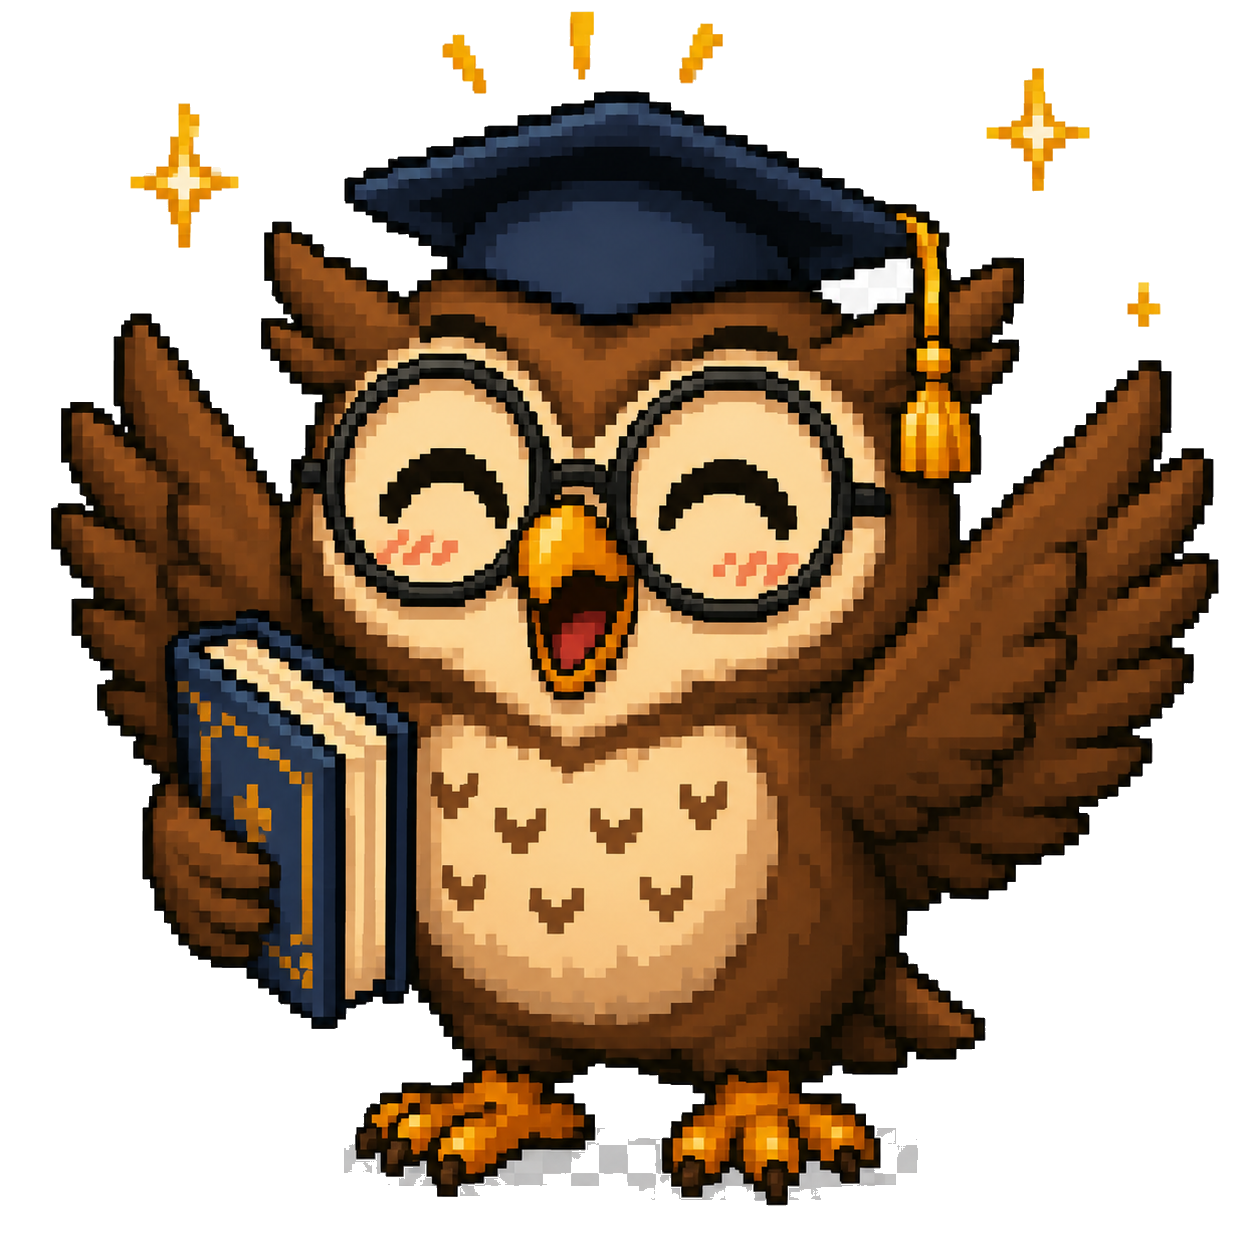
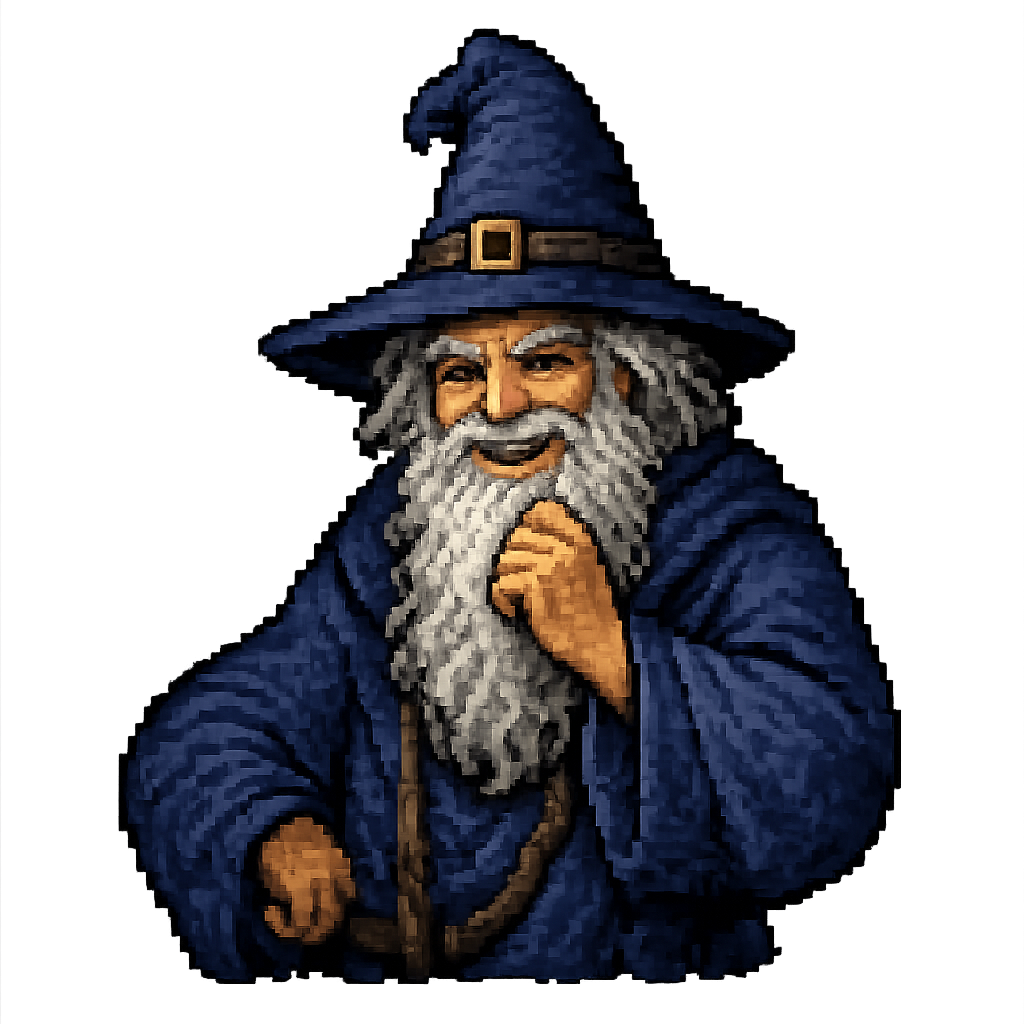
feat: novas imagens do Gandalf (dormindo/feliz/lendo/raiva/triste)
Troca as imagens antigas da coruja Gustavo pelas novas do Gandalf. Mapeamento por cenario:
dormindo = 2+ dias sem atividade, raiva = atrasado na meta da semana, triste = tendencia fraca
em varias semanas, feliz = tudo em dia, lendo = fluxo normal de estudo (caso mais comum).

diff --git a/src/components/estudo/trilha/trilha-ui.ts b/src/components/estudo/trilha/trilha-ui.ts
@@ -103,10 +103,12 @@ export function proximaAtividade(meta: MetaSemana): ProximaAtividade | null {
   return null;
 }
 
-// qual PNG do Gustavo (coruja mascote, /public/{humor}.png) ilustra a bolha — decidido junto com
-// o texto em gerarMensagemGustavo, pela mesma prioridade de cenário (nunca escolhido à parte,
-// senão a cara do Gustavo poderia dessincronizar do que ele está dizendo)
-export type HumorGustavo = "feliz" | "nervoso" | "triste" | "normal";
+// qual PNG do Gandalf (/public/{humor}.png) ilustra a bolha — decidido junto com o texto em
+// gerarMensagemGustavo, pela mesma prioridade de cenário (nunca escolhido à parte, senão a cara
+// do Gandalf poderia dessincronizar do que ele está dizendo). Mapeamento: dormindo = inatividade
+// (2+ dias parado), raiva = atrasado na meta desta semana, triste = tendência fraca em várias
+// semanas seguidas, feliz = tudo em dia, lendo = fluxo normal de estudo (o caso mais comum).
+export type HumorGustavo = "feliz" | "dormindo" | "triste" | "raiva" | "lendo";
 
 export interface MensagemGustavo {
   titulo: string;
@@ -144,7 +146,7 @@ export function gerarMensagemGustavo(
     return {
       titulo: `${saudacao}Cadê você? 👀`,
       corpo: `Já fazem ${diasSemAtividade} dias sem nenhuma atividade registrada. Bora retomar hoje?`,
-      humor: "triste",
+      humor: "dormindo",
     };
   }
 
@@ -152,7 +154,7 @@ export function gerarMensagemGustavo(
     return {
       titulo: `${saudacao}Você está atrasado na meta desta semana`,
       corpo: `Só ${meta.percCumpridoSemana}% feito até agora — nos dias que restam, dá uns ${fmtHoras(meta.ritmoNecessarioMinDia)}/dia pra recuperar.`,
-      humor: "nervoso",
+      humor: "raiva",
     };
   }
 
@@ -163,7 +165,7 @@ export function gerarMensagemGustavo(
     return {
       titulo: `${saudacao}Vamos ajustar o ritmo?`,
       corpo: `Nas últimas ${ultimasSemanas.length} semanas você fechou em média ${media}% da meta — talvez valha reduzir as horas semanais no Ciclo pra ficar mais sustentável.`,
-      humor: "nervoso",
+      humor: "triste",
     };
   }
 
@@ -189,7 +191,7 @@ export function gerarMensagemGustavo(
     return {
       titulo: `${saudacao}Sua atividade desta semana é:`,
       corpo: `${proxima.titulo} — ${proxima.subtitulo}${notaComparativa}`,
-      humor: "normal",
+      humor: "lendo",
     };
   }
   // estudo já em andamento (não é "vamos começar" — já tem minutos/capítulos feitos nesta
@@ -201,13 +203,13 @@ export function gerarMensagemGustavo(
     return {
       titulo: `${saudacao}Continue em ${proxima.titulo}`,
       corpo: `Já fez ${fmtHoras(feitos)} de ${fmtHoras(alvo)} nesta atividade — ${onde}${notaComparativa}`,
-      humor: "normal",
+      humor: "lendo",
     };
   }
   return {
     titulo: `${saudacao}Vi que você ainda não fez:`,
     corpo: `${proxima.titulo} · ${proxima.subtitulo}${notaComparativa}`,
-    humor: "normal",
+    humor: "lendo",
   };
 }
 

diff --git a/src/components/estudo/DashboardTab.tsx b/src/components/estudo/DashboardTab.tsx
@@ -71,7 +71,7 @@ function MensagemDoDia({ state, materiasConcurso, nomeUsuario }: { state: Estudo
     diasSemAtividade: trilha ? Math.min(diasSemAtividade(state.calendario), Math.max(0, diffDias(trilha.iniciadaEm, dateKeyLocal()))) : 0,
     historico: trilha ? analisarHistoricoSemanas({ trilha, configCiclo: state.configCiclo, calendario: state.calendario }) : [],
   };
-  const mensagemBase = meta ? gerarMensagemGustavo(meta, opts) : { titulo: "", corpo: "", humor: "normal" as const };
+  const mensagemBase = meta ? gerarMensagemGustavo(meta, opts) : { titulo: "", corpo: "", humor: "lendo" as const };
   const { titulo, corpo, humor } = useMensagemGustavoIA(mensagemBase, meta, opts);
   if (!ativa) return null;
 
